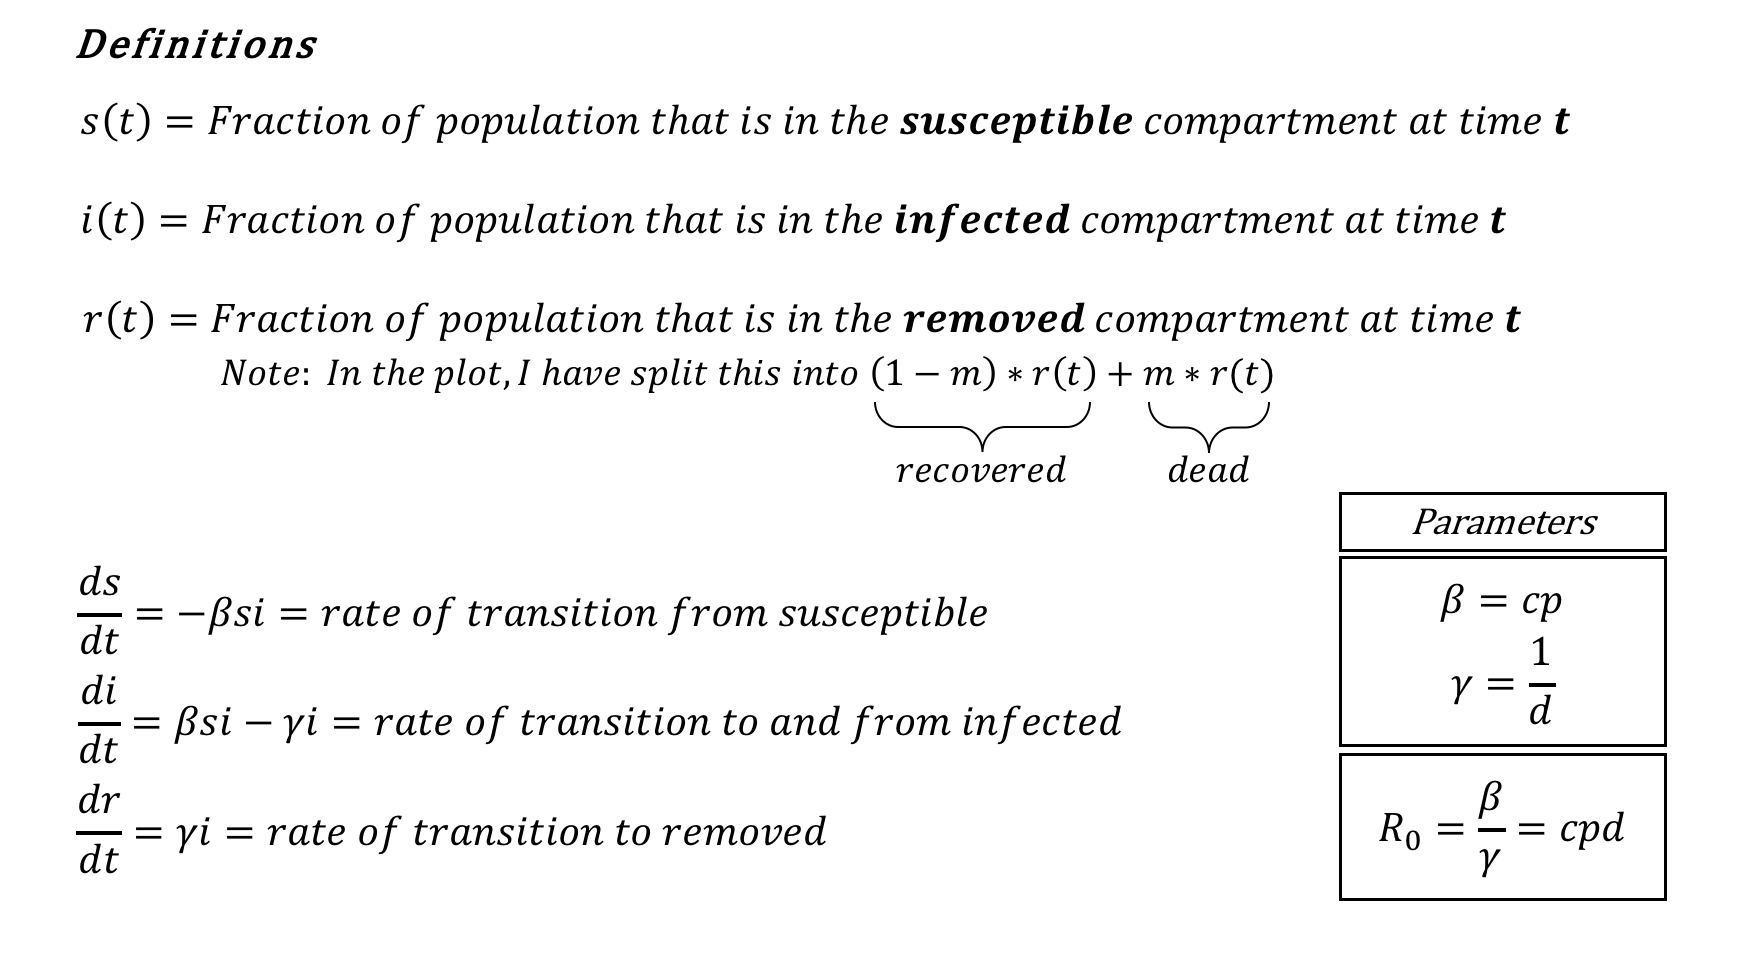
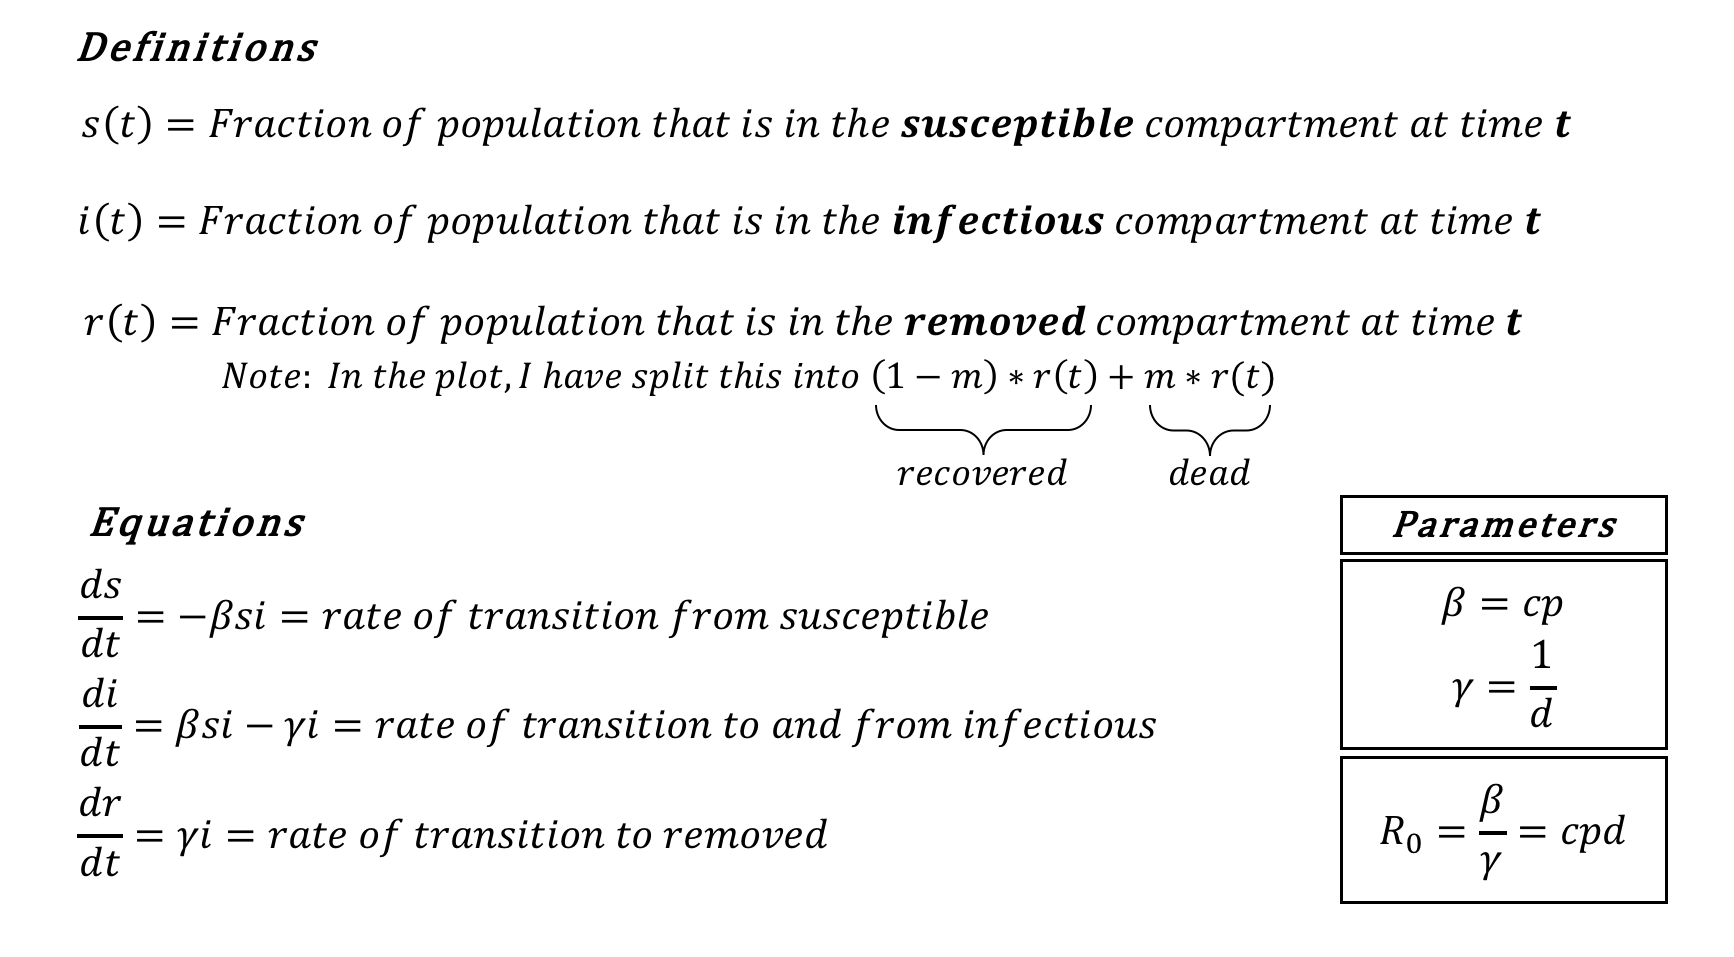
Renamed 'infected' to 'infectious'

diff --git a/README.md b/README.md
@@ -1,12 +1,12 @@
 ## SIR epidemiological modeling, [Shiny-fied](https://cgrilson.shinyapps.io/model)
 
-The model used for this simulation is an example of a [compartmental model](https://en.wikipedia.org/wiki/Compartmental_models_in_epidemiology), in which the population is divided into compartments, or disease states. Here, those states are **S**usceptible, **I**nfected, and **R**emoved (recovered or dead). Individuals transition between the states according to transition rates, which we can express as a set of differential equations (see below).
+The model used for this simulation is an example of a [compartmental model](https://en.wikipedia.org/wiki/Compartmental_models_in_epidemiology), in which the population is divided into compartments, or disease states. Here, those states are **S**usceptible, **I**nfectious, and **R**emoved (recovered or dead). Individuals transition between the states according to transition rates, which we can express as a set of differential equations (see below).
 
-The key parameters governing the dynamics of the infected are \(\beta\) and \(\gamma\), which are determined by your inputs: $c$, $p$, and $d$. \(\beta\) is the expected number of infections per infected individual per day, and \(\gamma\) is the recovery rate. The ratio of these two is more commonly known as the basic reproduction number, *R~0~*!
+The key parameters governing the dynamics of the susceptible and infectious populations are \(\beta\) and \(\gamma\), which are determined by your inputs: $c$, $p$, and $d$. \(\beta\) is the expected number of infections per infected individual per day, and \(\gamma\) is the recovery rate. The ratio of these two is more commonly known as the basic reproduction number, *R~0~*!
 
 There are a few key assumptions for this model. Beginning with the most unrealistic:
 
-* The population is homogeneous. Every susceptible individual is equally likely to become infected; every infected person is equally likely to transmit, recover, or die from the disease.
+* The population is homogeneous. Every susceptible individual is equally likely to become infected; every infectious person is equally likely to transmit, recover, or die from the disease.
 
 * Once an individual has the disease and is no longer infectious, they cannot infect or be infected again. They are referred to as ‘removed’ because they no longer affect the dynamics of the susceptible and infected populations.
 
